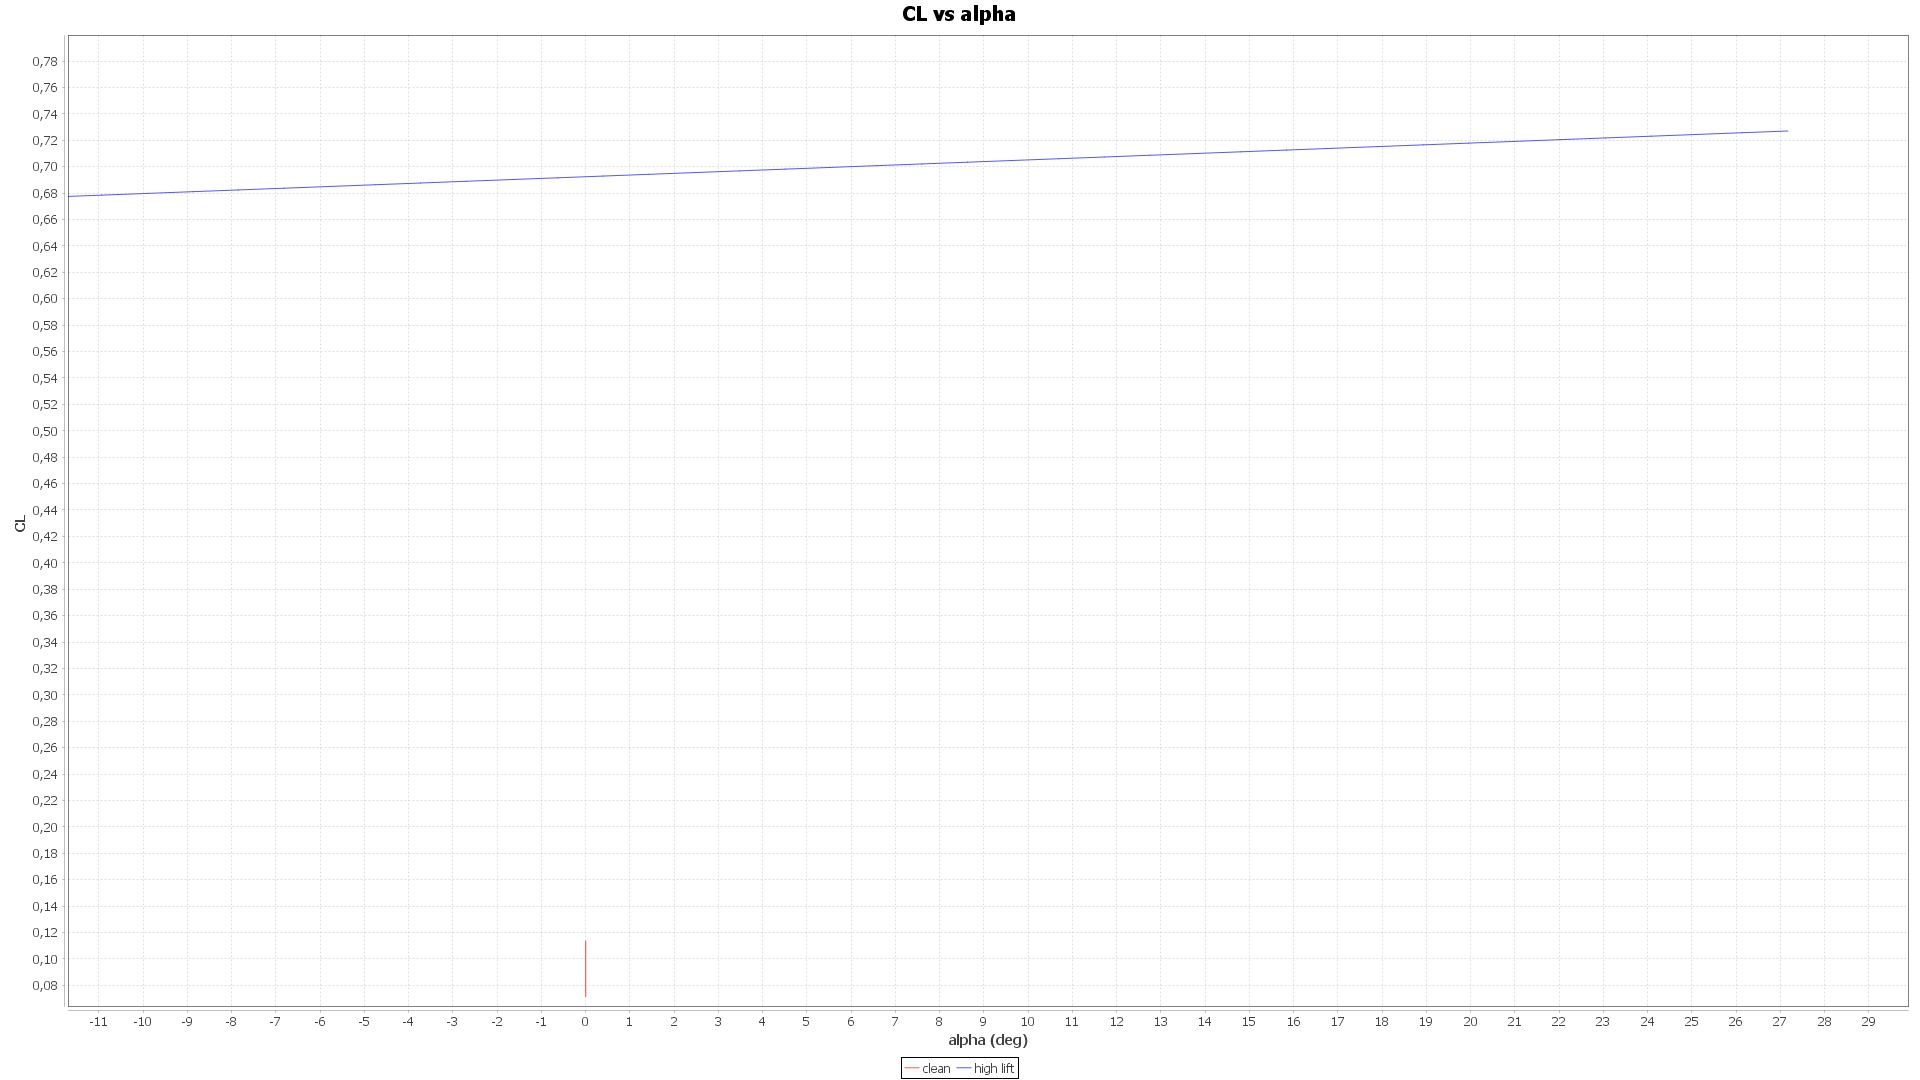
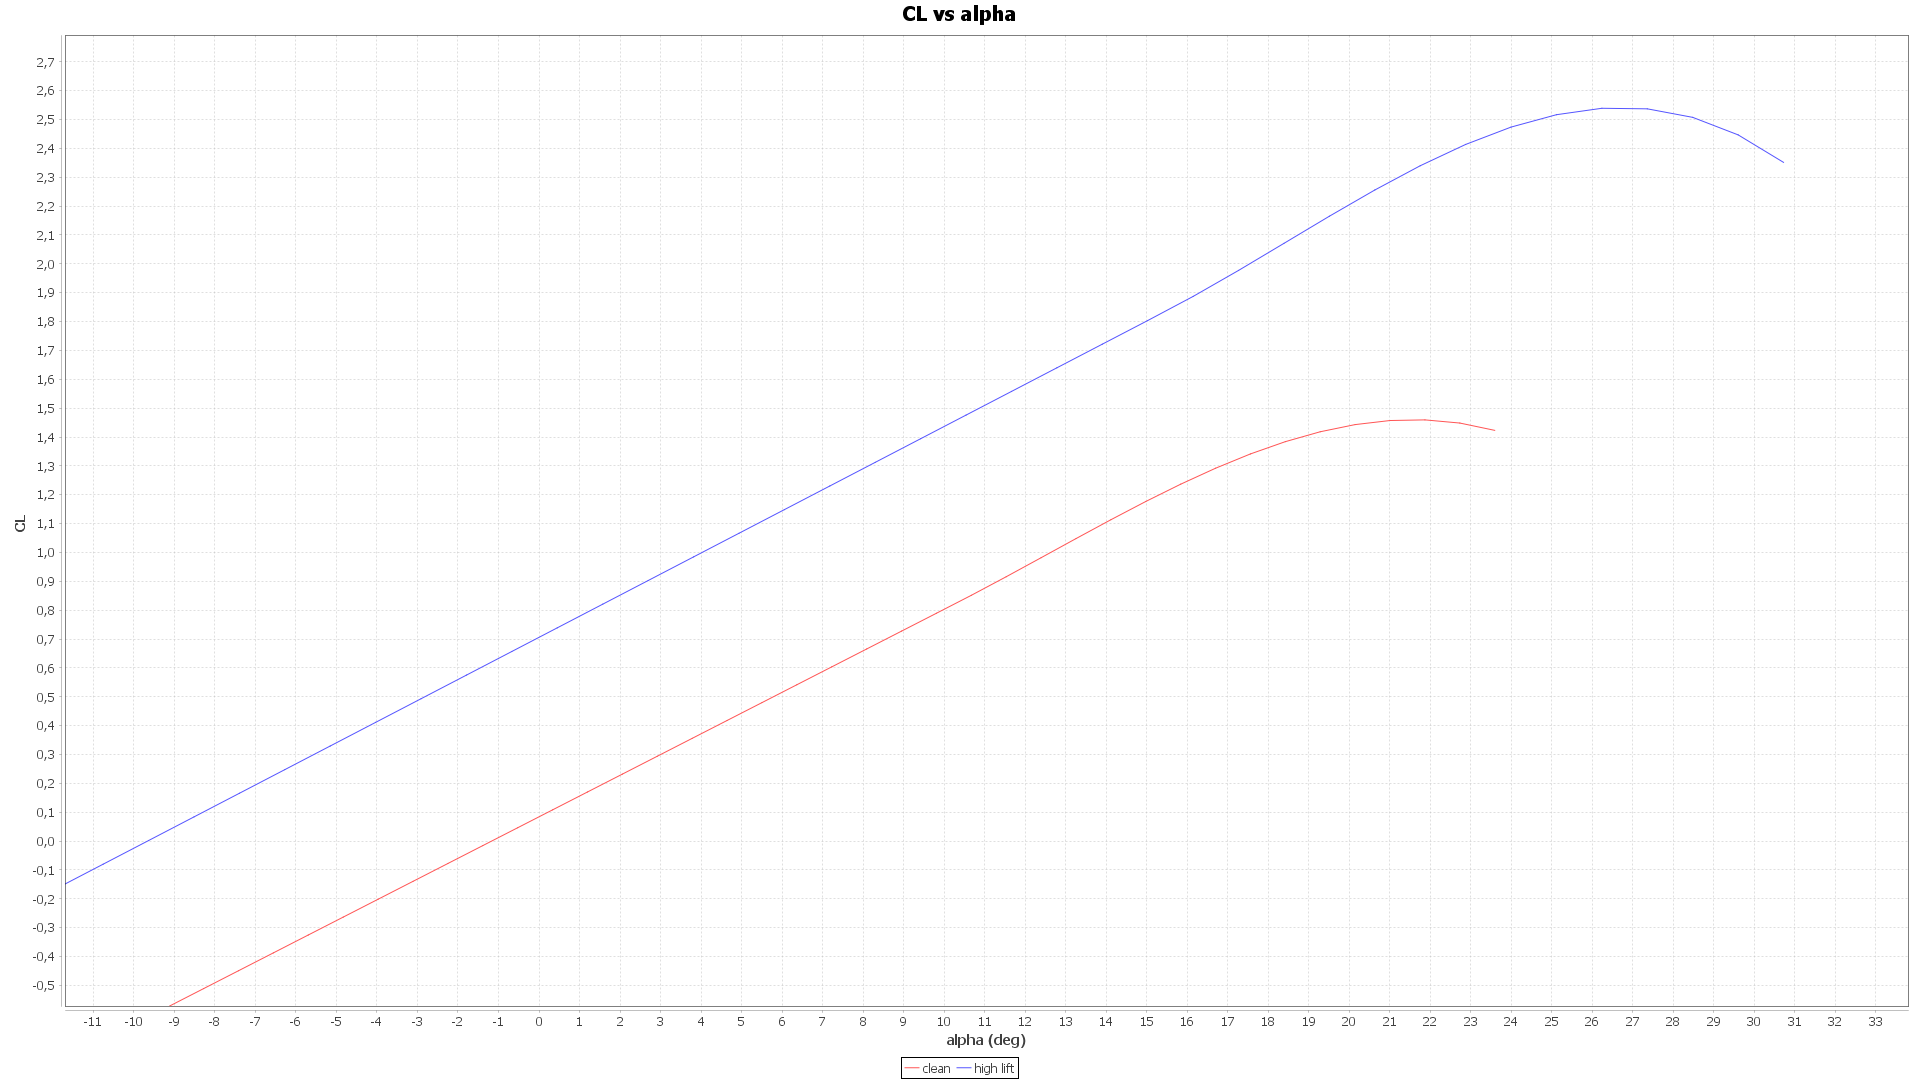
More work on ExecutableHighLiftDevices inside sandbox.vt

diff --git a/JPADSandBox/src/sandbox/vt/ExecutableHighLiftDevices/HighLiftDevicesCalc.java b/JPADSandBox/src/sandbox/vt/ExecutableHighLiftDevices/HighLiftDevicesCalc.java
@@ -10,6 +10,7 @@ import javax.measure.unit.SI;
 import javax.xml.parsers.ParserConfigurationException;
 import org.apache.commons.math3.linear.MatrixUtils;
 import org.apache.commons.math3.linear.RealMatrix;
+import org.apache.jasper.tagplugins.jstl.core.Out;
 import org.jscience.physics.amount.Amount;
 import org.w3c.dom.NodeList;
 import calculators.geometry.LSGeometryCalc;
@@ -24,7 +25,6 @@ import standaloneutils.MyArrayUtils;
 import standaloneutils.MyChartToFileUtils;
 import standaloneutils.MyMathUtils;
 import standaloneutils.MyXMLReaderUtils;
-import standaloneutils.customdata.MyArray;
 import writers.JPADStaticWriteUtils;
 
 public class HighLiftDevicesCalc {
@@ -727,7 +727,7 @@ public class HighLiftDevicesCalc {
 		for(int i=0; i<output.getDeltaCl0FlapList().size(); i++)
 			System.out.println(output.getDeltaCl0FlapList().get(i));
 
-		System.out.println("\ndeltaCl0_flap = \n" + output.getDeltaCL0Flap());
+		System.out.println("\ndeltaCl0_flap = \n" + output.getDeltaCl0Flap());
 
 		System.out.println("\ndeltaCL0_flap_list = ");
 		for(int i=0; i<output.getDeltaCL0FlapList().size(); i++)
@@ -893,34 +893,39 @@ public class HighLiftDevicesCalc {
 	private static void plotCurves(AerodynamicDatabaseReader aeroDatabaseReader) throws InstantiationException, IllegalAccessException{ 
 
 		String folderPathHL = MyConfiguration.getDir(FoldersEnum.OUTPUT_DIR);
-			
+		
+		//--------------------------------------------------------------------------------------
+		// BUILDING CLEAN CURVE:
+		//--------------------------------------------------------------------------------------
 		double alphaCleanFirst = -10.0;
 		Amount<Angle> alphaActual;
+		
 		int nPoints = 40;
-		Amount<Angle> alphaStarClean = input.getAlphaStarClean();
+		
+		Amount<Angle> alphaStarClean = input.getAlphaStarClean().to(SI.RADIAN);
 		double cLStarClean = input.getcLstarClean();
-		double cLalphaClean = input.getcLAlphaClean().getEstimatedValue();
+		double cLalphaClean = input.getcLAlphaClean().to(SI.RADIAN.inverse()).getEstimatedValue();
 		double cL0Clean = cLStarClean - cLalphaClean*alphaStarClean.getEstimatedValue();
 
 		double cLMaxClean = input.getcLmaxClean();
-		Amount<Angle> alphaMaxClean = input.getAlphaMaxClean();
+		Amount<Angle> alphaMaxClean = input.getAlphaMaxClean().to(SI.RADIAN);
 		
-		double[] alphaArrayPlot = new double[nPoints];
- 		double[] cLCleanArrayPlot = new double[nPoints]; 
+		Double[] alphaCleanArrayPlot = new Double[nPoints];
+ 		Double[] cLCleanArrayPlot = new Double[nPoints]; 
 		
-		alphaArrayPlot = MyArrayUtils.linspace(alphaCleanFirst, alphaMaxClean.getEstimatedValue() + 2, nPoints);
-		cLCleanArrayPlot = new double [nPoints];
+		alphaCleanArrayPlot = MyArrayUtils.linspaceDouble(alphaCleanFirst, alphaMaxClean.to(NonSI.DEGREE_ANGLE).getEstimatedValue() + 2, nPoints);
+		cLCleanArrayPlot = new Double [nPoints];
 
-		double[][] matrixDataClean = { {Math.pow(alphaMaxClean.to(SI.RADIAN).getEstimatedValue(), 3),
-			Math.pow(alphaMaxClean.to(SI.RADIAN).getEstimatedValue(), 2),
-			alphaMaxClean.to(SI.RADIAN).getEstimatedValue(),1.0},
-				{3* Math.pow(alphaMaxClean.to(SI.RADIAN).getEstimatedValue(), 2),
-				2*alphaMaxClean.to(SI.RADIAN).getEstimatedValue(), 1.0, 0.0},
-				{3* Math.pow(alphaStarClean.to(SI.RADIAN).getEstimatedValue(), 2),
-					2*alphaStarClean.to(SI.RADIAN).getEstimatedValue(), 1.0, 0.0},
-				{Math.pow(alphaStarClean.to(SI.RADIAN).getEstimatedValue(), 3),
-						Math.pow(alphaStarClean.to(SI.RADIAN).getEstimatedValue(), 2),
-						alphaStarClean.to(SI.RADIAN).getEstimatedValue(),1.0}};
+		double[][] matrixDataClean = { {Math.pow(alphaMaxClean.getEstimatedValue(), 3),
+			Math.pow(alphaMaxClean.getEstimatedValue(), 2),
+			alphaMaxClean.getEstimatedValue(),1.0},
+				{3* Math.pow(alphaMaxClean.getEstimatedValue(), 2),
+				2*alphaMaxClean.getEstimatedValue(), 1.0, 0.0},
+				{3* Math.pow(alphaStarClean.getEstimatedValue(), 2),
+					2*alphaStarClean.getEstimatedValue(), 1.0, 0.0},
+				{Math.pow(alphaStarClean.getEstimatedValue(), 3),
+						Math.pow(alphaStarClean.getEstimatedValue(), 2),
+						alphaStarClean.getEstimatedValue(),1.0}};
 		
 		RealMatrix mc = MatrixUtils.createRealMatrix(matrixDataClean);
 		double [] vectorClean = {cLMaxClean, 0, cLalphaClean, cLStarClean};
@@ -932,8 +937,8 @@ public class HighLiftDevicesCalc {
 		double cC = solSystemC[2];
 		double dC = solSystemC[3];
 
-		for ( int i=0 ; i< alphaArrayPlot.length ; i++){
-			alphaActual = Amount.valueOf(toRadians(alphaArrayPlot[i]), SI.RADIAN);
+		for ( int i=0 ; i< alphaCleanArrayPlot.length ; i++){
+			alphaActual = Amount.valueOf(toRadians(alphaCleanArrayPlot[i]), SI.RADIAN);
 			if (alphaActual.getEstimatedValue() < alphaStarClean.getEstimatedValue()) { 
 				cLCleanArrayPlot[i] = cLalphaClean*alphaActual.getEstimatedValue() + cL0Clean;}
 			else {
@@ -943,28 +948,57 @@ public class HighLiftDevicesCalc {
 			}
 		}
 
-		double[] alphaCleanArrayPlot = new double[nPoints];
-		double[] cLArrayHighLiftPlot = new double [nPoints];
-
+		//--------------------------------------------------------------------------------------
+		// BUILDING HIGH LIFT CURVE:
+		//--------------------------------------------------------------------------------------
 		double alphaHighLiftFirst = -13.0;
+		Amount<Angle> alphaHighLiftActual;
 		
-		double cL0HighLift = input.getcL0Clean() + output.getDeltaCL0Flap();
+		Amount<Angle> alphaStarHighLift = output.getAlphaStarFlapSlat().to(SI.RADIAN);
+		double cLStarHighLift = output.getcLStarFlapSlat();
+		double cLalphaHighLift = output.getcLalphaNew().to(SI.RADIAN.inverse()).getEstimatedValue();
+		double cL0HighLift = cLStarHighLift - cLalphaHighLift*alphaStarHighLift.getEstimatedValue();
 		
-		double alphaMaxHighLift = output.getAlphaMaxFlapSlat().getEstimatedValue();
+		double cLMaxHighLift = output.getcLmaxFlapSlat();
+		Amount<Angle> alphaMaxHighLift = output.getAlphaMaxFlapSlat().to(SI.RADIAN);
+		
+		Double[] alphaHighLiftArrayPlot = new Double[nPoints];
+		Double[] cLArrayHighLiftPlot = new Double [nPoints];
 
-		double alphaStarFlap = output.getAlphaStarFlapSlat().getEstimatedValue(); 
-
-		double cLStarFlap = output.getcLalphaNew().getEstimatedValue() * alphaStarFlap + cL0HighLift;	
+		alphaHighLiftArrayPlot = MyArrayUtils.linspaceDouble(alphaHighLiftFirst, alphaMaxHighLift.to(NonSI.DEGREE_ANGLE).getEstimatedValue() + 4, nPoints);
+		cLArrayHighLiftPlot = new Double [nPoints];
 		
-		double[][] matrixDataHighLift = { {Math.pow(alphaMaxHighLift, 3), Math.pow(alphaMaxHighLift, 2)
-			, alphaMaxHighLift,1.0},
-				{3* Math.pow(alphaMaxHighLift, 2), 2*alphaMaxHighLift, 1.0, 0.0},
-				{3* Math.pow(alphaStarFlap, 2), 2*alphaStarFlap, 1.0, 0.0},
-				{Math.pow(alphaStarFlap, 3), Math.pow(alphaStarFlap, 2),alphaStarFlap,1.0}};
+		double[][] matrixDataHighLift = { {Math.pow(alphaMaxHighLift.getEstimatedValue(), 3),
+			Math.pow(alphaMaxHighLift.getEstimatedValue(), 2),
+			alphaMaxHighLift.getEstimatedValue(),1.0},
+				{3* Math.pow(alphaMaxHighLift.getEstimatedValue(), 2),
+				2*alphaMaxHighLift.getEstimatedValue(), 1.0, 0.0},
+				{3* Math.pow(alphaStarHighLift.getEstimatedValue(), 2),
+					2*alphaStarHighLift.getEstimatedValue(), 1.0, 0.0},
+				{Math.pow(alphaStarHighLift.getEstimatedValue(), 3),
+						Math.pow(alphaStarHighLift.getEstimatedValue(), 2),
+						alphaStarHighLift.getEstimatedValue(),1.0}};
+		
 		RealMatrix mhl = MatrixUtils.createRealMatrix(matrixDataHighLift);
+		double [] vectorHighLift = {cLMaxHighLift, 0, cLalphaHighLift, cLStarHighLift};
 
+		double [] solSystemHL = MyMathUtils.solveLinearSystem(mhl, vectorHighLift);
 
-		double [] vectorHighLift = {output.getcLmaxFlapSlat(), 0, output.getcLalphaNew().getEstimatedValue(), cLStarFlap};
+		double aHL = solSystemHL[0];
+		double bHL = solSystemHL[1];
+		double cHL = solSystemHL[2];
+		double dHL = solSystemHL[3];
+
+		for ( int i=0 ; i< alphaHighLiftArrayPlot.length ; i++){
+			alphaHighLiftActual = Amount.valueOf(toRadians(alphaHighLiftArrayPlot[i]), SI.RADIAN);
+			if (alphaHighLiftActual.getEstimatedValue() < alphaStarHighLift.getEstimatedValue()) { 
+				cLArrayHighLiftPlot[i] = cLalphaHighLift*alphaHighLiftActual.getEstimatedValue() + cL0HighLift;}
+			else {
+				cLArrayHighLiftPlot[i] = aHL * Math.pow(alphaHighLiftActual.getEstimatedValue(), 3) + 
+						bHL * Math.pow(alphaHighLiftActual.getEstimatedValue(), 2) + 
+						cHL * alphaHighLiftActual.getEstimatedValue() + dHL;
+			}
+		}
 		
 		System.out.println(" \n-----------CLEAN CONFIGURATION-------------- ");
 		System.out.println(" Alpha max = " + input.getAlphaMaxClean().getEstimatedValue() + " " + input.getAlphaMaxClean().getUnit());
@@ -980,51 +1014,17 @@ public class HighLiftDevicesCalc {
 		System.out.println(" CL star = " + output.getcLStarFlapSlat());
 		System.out.println(" CL alpha = " + output.getcLalphaNew().getEstimatedValue() + " " + output.getcLalphaNew().getUnit());
 
-		double [] solSystemHL = MyMathUtils.solveLinearSystem(mhl, vectorHighLift);
-
-		double aHL = solSystemHL[0];
-		double bHL = solSystemHL[1];
-		double cHL = solSystemHL[2];
-		double dHL = solSystemHL[3];
-
-		double[] alphaArrayHighLiftPlot = MyArrayUtils.linspace(alphaHighLiftFirst,
-				alphaMaxHighLift + 4,
-				nPoints);
-
-		for ( int i=0 ; i< alphaArrayHighLiftPlot.length ; i++){
-			alphaActual = Amount.valueOf(toRadians(alphaArrayHighLiftPlot[i]), SI.RADIAN);
-			if (alphaActual.getEstimatedValue() <= alphaStarFlap) { 
-				cLArrayHighLiftPlot[i] = output.getcLalphaNew().getEstimatedValue() * alphaActual.getEstimatedValue() + cL0HighLift;}
-			else {
-				cLArrayHighLiftPlot[i] = aHL * Math.pow(alphaActual.getEstimatedValue(), 3) + 
-						bHL * Math.pow(alphaActual.getEstimatedValue(), 2) + 
-						cHL * alphaActual.getEstimatedValue() + dHL;
-			}
-		}
-
+		//--------------------------------------------------------------------------------------
 		// Convert from double to Double in order to use JFreeChart to plot.
 		
 		List<Double[]> cLListPlot = new ArrayList<>(); 
-		List<Double[]> alphaListPlot = new ArrayList<>(); 
-		
-		MyArray alphaArrayCleanMyArray = new MyArray(alphaCleanArrayPlot);
-		Double[] alphaArrayCleanDouble = alphaArrayCleanMyArray.getdDouble();
+		List<Double[]> alphaListPlot = new ArrayList<>();
 
-		MyArray alphaArrayHighLiftMyArray = new MyArray(alphaArrayHighLiftPlot);
-		Double[] alphaArrayHighLiftDouble = alphaArrayHighLiftMyArray.getdDouble();
+		alphaListPlot.add(alphaCleanArrayPlot);
+		alphaListPlot.add(alphaHighLiftArrayPlot);
 
-		MyArray cLArrayCleanMyArray = new MyArray(cLCleanArrayPlot);
-		Double[] cLArrayCleanDouble = cLArrayCleanMyArray.getdDouble();
-
-		MyArray cLArrayHighLiftMyArray = new MyArray(cLArrayHighLiftPlot);
-		Double[] cLArrayHighLiftDouble = cLArrayHighLiftMyArray.getdDouble();
-
-
-		alphaListPlot.add(alphaArrayCleanDouble);
-		alphaListPlot.add(alphaArrayHighLiftDouble);
-
-		cLListPlot.add(cLArrayCleanDouble);
-		cLListPlot.add(cLArrayHighLiftDouble);
+		cLListPlot.add(cLCleanArrayPlot);
+		cLListPlot.add(cLArrayHighLiftPlot);
 
 		List<String> legend  = new ArrayList<>(); 
 
@@ -1047,6 +1047,19 @@ public class HighLiftDevicesCalc {
 				"CL curve high lift");
 
 		System.out.println(" \n-------------------DONE----------------------- ");
+	}
+	
+	/*******************************************************************************************
+	 * This method is in charge of writing all input data collected inside the object of the 
+	 * OutputTree class on a XML file.
+	 * 
+	 * @author Vittorio Trifari
+	 * 
+	 * @param output object of the OutputTree class which holds all output data
+	 */
+	public static void writeToXML(OutputTree output) {
+		
+		
 	}
 	
 	//------------------------------------------------------------------------------------------

diff --git a/JPADSandBox/src/sandbox/vt/Landing_Test/Landing_Test_TF.java b/JPADSandBox/src/sandbox/vt/Landing_Test/Landing_Test_TF.java
@@ -313,6 +313,20 @@ public class Landing_Test_TF {
 
 		System.out.println("\n\ndeltaCLmax_flap = \n" + highLiftCalculator.getDeltaCLmax_flap());
 
+		System.out.println("\n\ndeltaClmax_flap = \n" + highLiftCalculator.getDeltaClmax_flap());
+
+		System.out.println("\n\ndeltaClmax_slat_list = ");
+		for(int i=0; i<highLiftCalculator.getDeltaClmax_slat_list().size(); i++)
+			System.out.print(highLiftCalculator.getDeltaClmax_slat_list().get(i) + " ");
+
+		System.out.println("\n\ndeltaClmax_slat = \n" + highLiftCalculator.getDeltaClmax_slat());
+		
+		System.out.println("\n\ndeltaCLmax_slat_list = ");
+		for(int i=0; i<highLiftCalculator.getDeltaCLmax_slat_list().size(); i++)
+			System.out.print(highLiftCalculator.getDeltaCLmax_slat_list().get(i) + " ");
+
+		System.out.println("\n\ndeltaCLmax_slat = \n" + highLiftCalculator.getDeltaCLmax_slat());
+		
 		System.out.println("\n\ncLalpha_new_list = ");
 		for(int i=0; i<highLiftCalculator.getcLalpha_new_list().size(); i++)
 			System.out.print(highLiftCalculator.getcLalpha_new_list().get(i) + " ");
